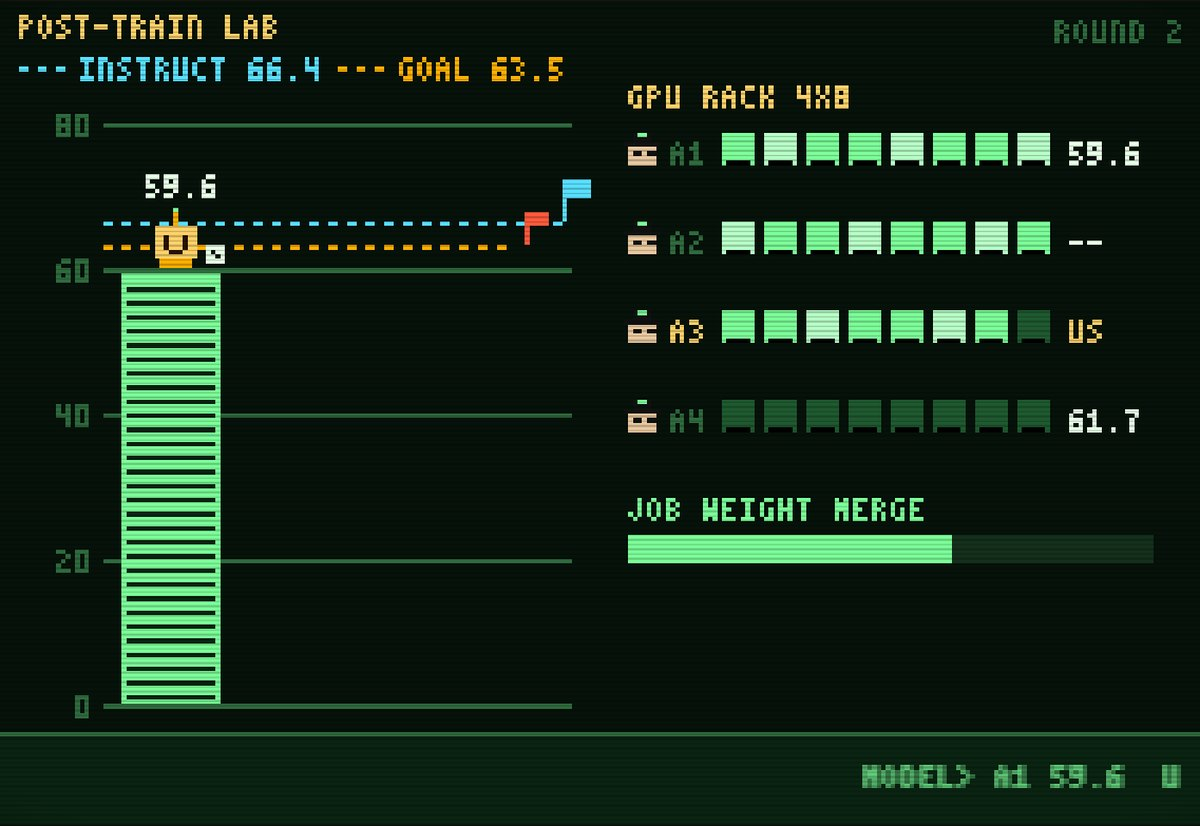
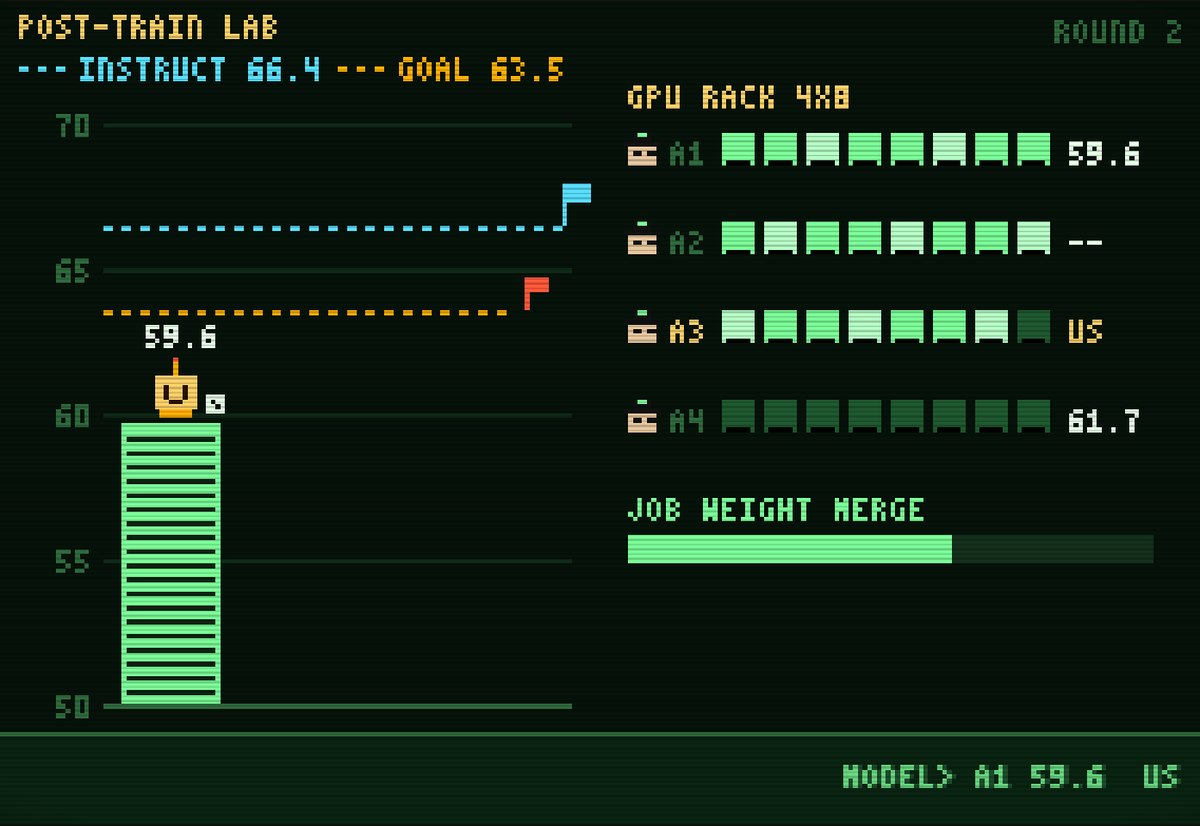
Post-Train Lab: zoom the score tower per round so the climb is visible

diff --git a/demos/2026-10-16-post-train-lab/index.html b/demos/2026-10-16-post-train-lab/index.html
@@ -494,7 +494,9 @@ function menu() {
 
 // ---------- drawing ----------
 const TX0 = 22, TX1 = 122, TY0 = 26, TY1 = 150;
-const scoreY = s => Math.round(TY1 - (s / 80) * (TY1 - TY0));
+const RANGES = [[0, 80, 20], [50, 70, 5], [58, 70, 4]];
+const rng3 = () => RANGES[S ? S.li : 0];
+const scoreY = s => { const [lo, hi] = rng3(); return Math.round(TY1 - Math.max(0, Math.min(1, (s - lo) / (hi - lo))) * (TY1 - TY0)); };
 function burst(x, y, col, n) { if (REDUCED) n = Math.min(n, 8); for (let i = 0; i < n; i++) { const a = Math.random() * 6.28, v = 20 + Math.random() * 60; fx.push({ x, y, vx: Math.cos(a) * v, vy: Math.sin(a) * v - 30, t: 0.6 + Math.random() * 0.6, col }); } }
 function dashH(y, x0, x1, col) { b.fillStyle = col; for (let x = x0; x < x1; x += 4) b.fillRect(x, y, 2, 1); }
 function robot(x, y, mood, t) { // our AI: a little pixel bot, 9x10
@@ -515,7 +517,7 @@ function draw(t, dt) {
   // title bar
   txt(b, "POST-TRAIN LAB", 4, 3, PAL.am2); txt(b, S ? "ROUND " + (S.li + 1) : "INSERT COIN", W - 4 - tw(S ? "ROUND 1" : "INSERT COIN"), 4, PAL.dim);
   // tower panel
-  b.fillStyle = PAL.grid; for (let v = 0; v <= 80; v += 20) { const y = scoreY(v); b.fillRect(TX0, y, TX1 - TX0, 1); txt(b, v, TX0 - 3 - tw(v), y - 2, PAL.dim); }
+  { const [lo, hi, st] = rng3(); for (let v = lo; v <= hi; v += st) { const y = scoreY(v); b.fillStyle = PAL.grid; b.fillRect(TX0, y, TX1 - TX0, 1); txt(b, v, TX0 - 3 - tw(v), y - 2, PAL.dim); } }
   const L = S ? LEVELS[S.li] : LEVELS[0];
   // instruct line + flag
   const iy = scoreY(66.4); dashH(iy, TX0, TX1, PAL.cy); b.fillStyle = PAL.cy; b.fillRect(TX1 - 2, iy - 9, 1, 9); b.fillRect(TX1 - 1, iy - 9, 5, 4);
